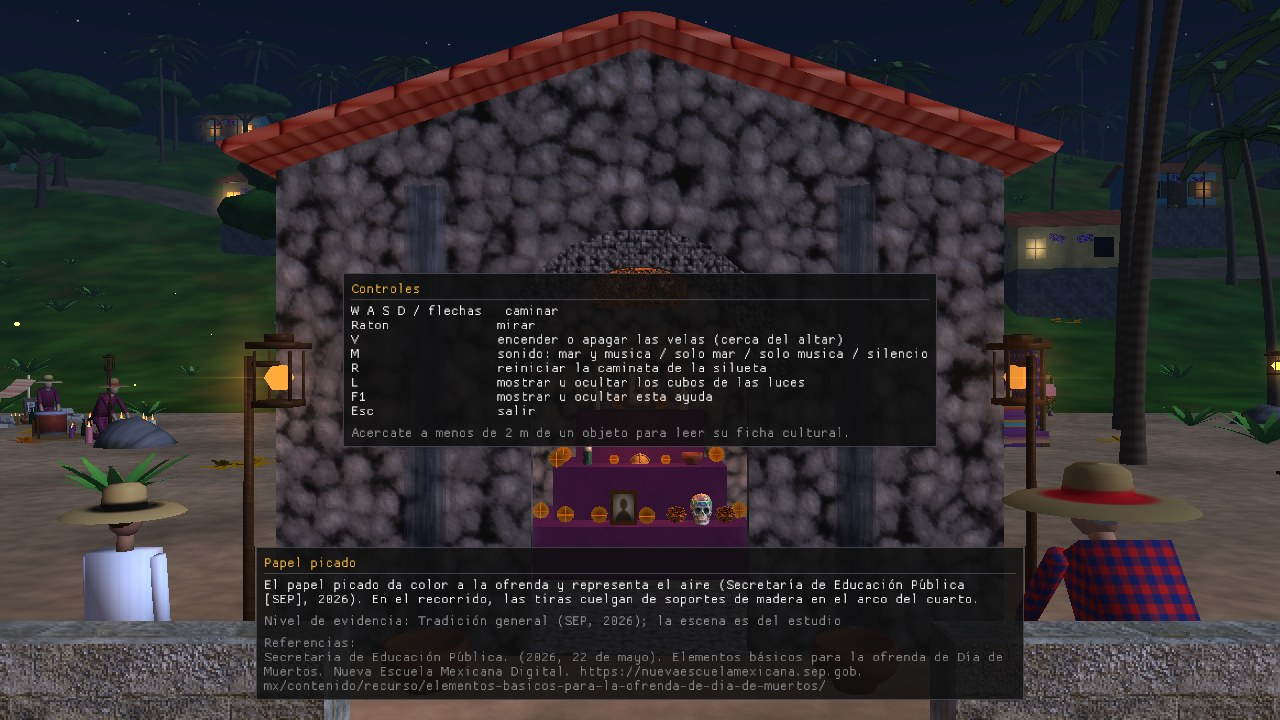
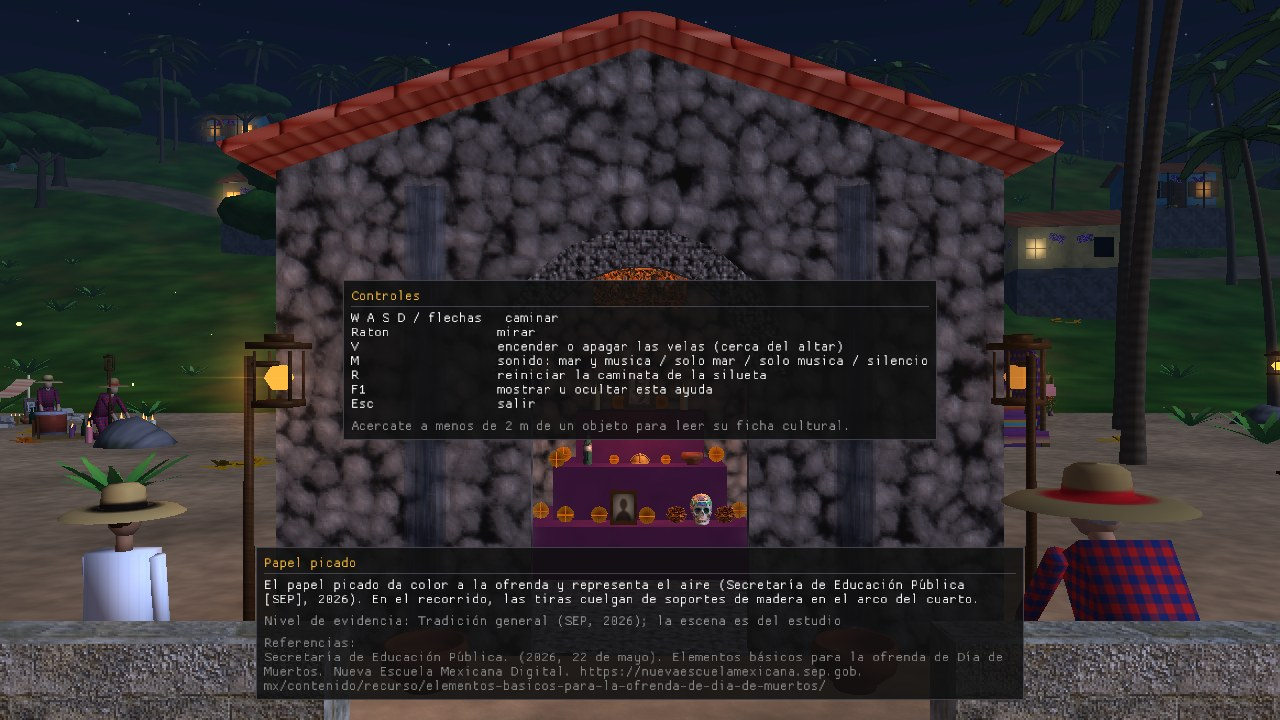
E-6 · Captura de la ayuda F1 sin la tecla L

Changed region(s): [[0.25, 0.3667, 0.75, 0.6417], [0.7812, 0.4889, 0.8125, 0.55]]

diff --git a/docs/manual_usuario/02_controles.md b/docs/manual_usuario/02_controles.md
@@ -48,4 +48,4 @@ Lista de controles que muestra **F1**:
 
 ![Ayuda de controles con F1](capturas/02_ayuda_F1.jpg)
 
-*Capturas del 17/11/2026 en la PC de D2 (con las variables `NIERIKA_UI=velas_apagadas` y `NIERIKA_UI=ayuda` del modo de captura; el juego muestra lo mismo al pulsar las teclas). La ayuda F1 lista también **L**, y no lista las teclas de depuración.*
+*Capturas del 17/11/2026 en la PC de D2 (con las variables `NIERIKA_UI=velas_apagadas` y `NIERIKA_UI=ayuda` del modo de captura; el juego muestra lo mismo al pulsar las teclas).*

diff --git a/docs/manual_usuario/en/02_controls.md b/docs/manual_usuario/en/02_controls.md
@@ -46,4 +46,4 @@ The controls list shown by **F1**:
 
 ![Controls help with F1](../capturas/02_ayuda_F1.jpg)
 
-*Screenshots of Nov 17, 2026 on D2's PC (using the capture mode variables `NIERIKA_UI=velas_apagadas` and `NIERIKA_UI=ayuda`; the game shows the same when you press the keys). The F1 help also lists **L** and does not list the debug keys.*
+*Screenshots of Nov 17, 2026 on D2's PC (using the capture mode variables `NIERIKA_UI=velas_apagadas` and `NIERIKA_UI=ayuda`; the game shows the same when you press the keys).*
